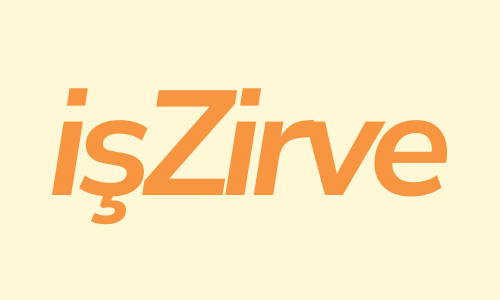
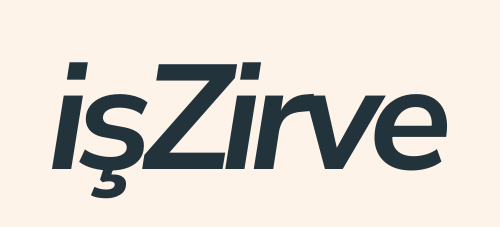
feat: db listed

Changed region(s): [[0.09, 0.2467, 0.9, 0.8943], [0.12, 0.2467, 0.18, 0.37]]

diff --git a/src/SearchBar.js b/src/SearchBar.js
@@ -1,0 +1,25 @@
+import React from 'react';
+import JSONJOBS from './db.json';
+
+function SearchBar() {
+    return (
+        <>
+            <header>
+                <img className='logoImg' src='./img/iszirve.png' />
+            </header>
+            <main>
+                <input className='searchInput' type='text' placeholder='İş bul...' />
+                {JSONJOBS.map((val, i) => {
+                    return (
+                        <div>
+                            <p className='searchResult'>{val.title}</p>
+                        </div>
+                    )
+                })}
+                <button className='searchButton'>Ara</button>
+            </main>
+        </>
+    )
+}
+
+export default SearchBar;

diff --git a/src/index.css b/src/index.css
@@ -5,4 +5,44 @@ body {
   padding: 0;
   box-sizing: border-box;
   font-family: 'Nunito', sans-serif;
+  background-color: #fef3e9;
+}
+
+.logoImg {
+  display: block;
+  margin-left: auto;
+  margin-right: auto;
+  margin-top: 6rem;
+  height: 12rem;
+}
+
+.searchInput {
+  
+  width: 20rem;
+  height: 2.5rem;
+  padding-left: 0.7rem;
+  font-size: 1.2rem;
+  border: 2px solid #22333c;
+  border-radius: 12px;
+  background-color: #fef3e9;
+}
+
+.searchResult {
+  
+}
+
+.searchButton{
+  
+  width: 4rem;
+  height: 2.5rem;
+  border: 2px solid #22333c;
+  border-radius: 12px;
+  background-color: #fef3e9;
+  font-size: 1.2rem;
+  cursor: pointer;
+}
+
+.searchButton:hover{
+  background-color: #22333c;
+  color: #fef3e9;
 }

diff --git a/src/App.js b/src/App.js
@@ -1,8 +1,11 @@
-import React from 'react'
+import React from 'react';
+import SearchBar from './SearchBar';
 
 function App() {
   return (
-    <div>App</div>
+    <>
+      <SearchBar />
+    </>
   )
 }
 
